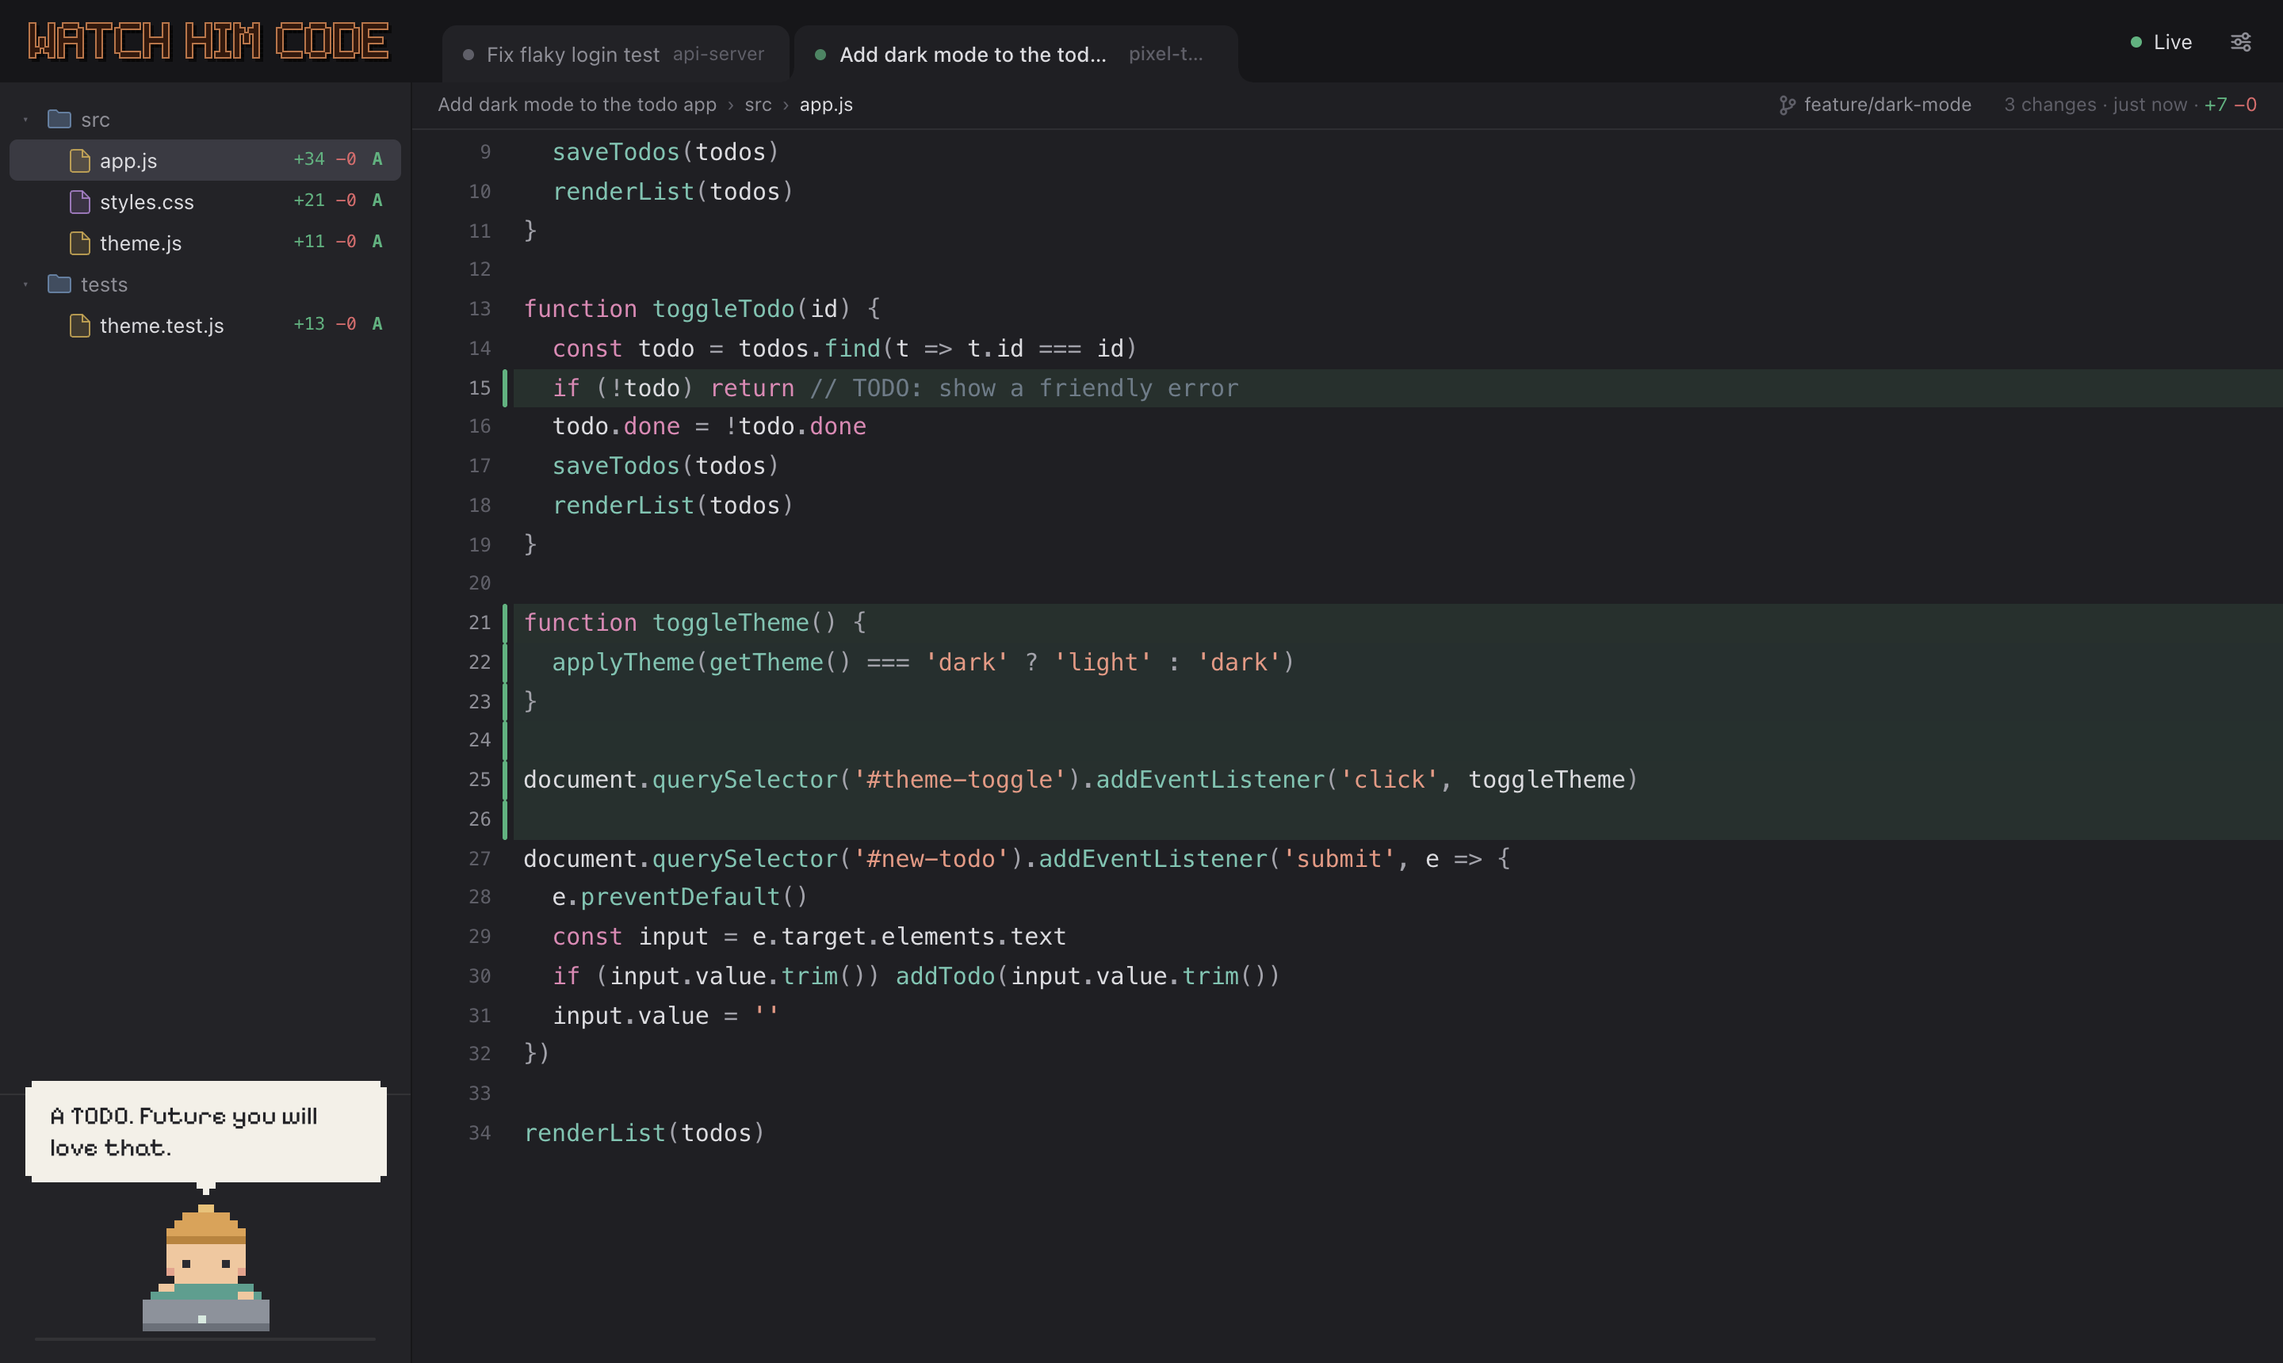
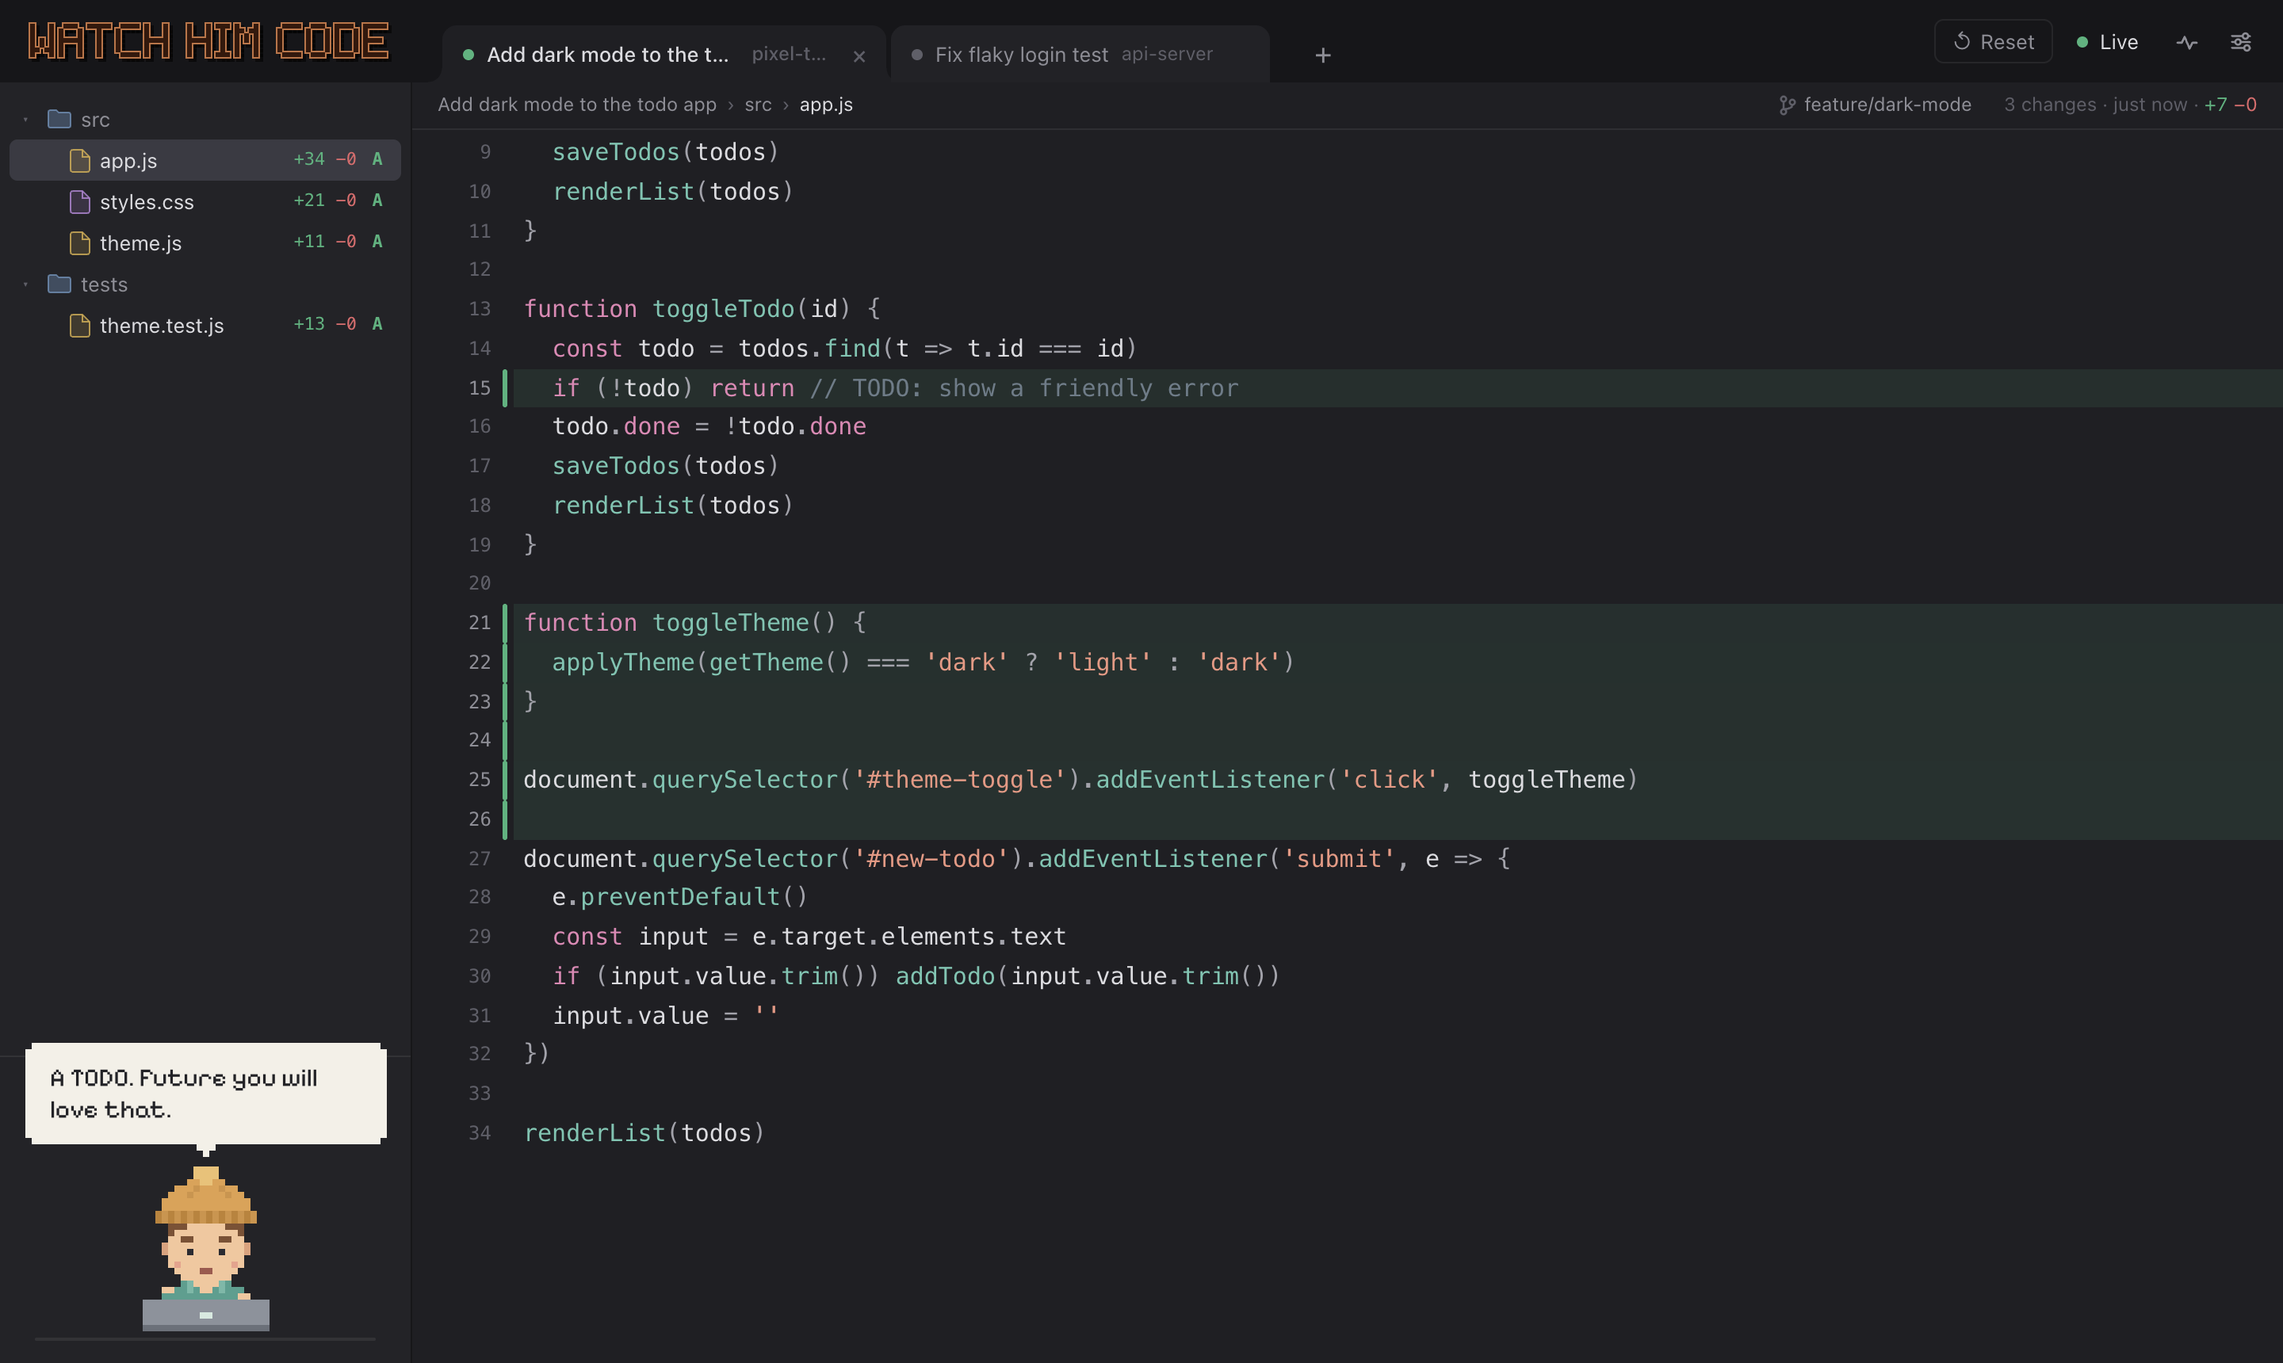
README and screenshots for the current app
- Screenshots regenerated (tabs with close and +, Reset, current avatars)
  plus two new ones: Werner and the settings panel.
- Features grouped (Watch · Understand what changed · Many sessions ·
  Live with it) instead of one long list; new Settings section with a
  short explanation of each option; "How it works" describes the
  git-like per-file diff; outdated bits fixed (d now starts the demo,
  the on/off setting is called Buddy).
- tools/screenshots.js: no update check / git fallback for the fake demo
  repos, closes the status panel, crops Werner and the settings panel,
  uses "Latest edit" for the hero shots (the demo files were all created
  in the session, so "whole session" would mark everything).

Changed region(s): [[0.0, 0.7395, 0.1875, 0.9552], [0.2188, 0.0308, 0.5312, 0.0616]]

diff --git a/tools/screenshots.js b/tools/screenshots.js
@@ -245,7 +245,7 @@ async function main() {
   seed()
 
   const server = spawn(process.execPath, [path.join(ROOT, 'server.js')], {
-    env: { ...process.env, HOME, USERPROFILE: HOME, WHC_NO_OPEN: '1', WHC_PORT: String(PORT) },
+    env: { ...process.env, HOME, USERPROFILE: HOME, CLAUDE_CONFIG_DIR: '', WHC_NO_OPEN: '1', WHC_PORT: String(PORT), WHC_UPDATE_CHECK: '0', WHC_GIT: '0' },
     stdio: 'ignore',
   })
   const chromePath = findChrome()
@@ -272,9 +272,17 @@ async function main() {
     const go = async settings => {
       await page.send('Page.navigate', { url })
       await sleep(800)
-      await page.send('Runtime.evaluate', { expression: `localStorage.setItem('whc.settings', ${JSON.stringify(JSON.stringify(settings))})` })
+      const all = { dwell: 0, marks: 'session', compare: 'session', autoClose: false, avatar: 'junior', ...settings }
+      await page.send('Runtime.evaluate', { expression: `localStorage.setItem('whc.settings', ${JSON.stringify(JSON.stringify(all))})` })
       await page.send('Page.reload')
-      await sleep(1800)
+      await sleep(2200)
+      await js("typeof toggleStatus === 'function' && toggleStatus(false)")
+    }
+    const js = async expression => (await page.send('Runtime.evaluate', { expression, returnByValue: true })).result?.result?.value
+    /** Screen rectangle of an element (for cropping), with some padding. */
+    const rectOf = async (selector, pad = 0) => {
+      const r = await js(`(() => { const b = document.querySelector(${JSON.stringify(selector)}).getBoundingClientRect(); return { x: b.x, y: b.y, width: b.width, height: b.height } })()`)
+      return { x: Math.max(0, r.x - pad), y: Math.max(0, r.y - pad), width: r.width + 2 * pad, height: r.height + 2 * pad }
     }
     const shot = async (name, clip) => {
       const r = await page.send('Page.captureScreenshot', { format: 'png', ...(clip ? { clip: { ...clip, scale: 1 } } : {}) })
@@ -282,8 +290,10 @@ async function main() {
       console.log('✓', name)
     }
 
-    // 1. Editor, dark, inline – caught mid-change with the Pixel Junior talking
-    await go({ view: 'editor', theme: 'dark', diff: 'inline', buddy: true })
+    // 1. Editor, dark, inline – caught mid-change with the Pixel Junior talking.
+    //    The demo files were all created in this session, so "whole session" would
+    //    mark everything – show the edit that is happening instead.
+    await go({ view: 'editor', theme: 'dark', diff: 'inline', buddy: true, marks: 'latest' })
     liveChange()
     await sleep(1500)
     await page.send('Runtime.evaluate', { expression: "document.querySelector('.bubble').textContent = 'A TODO. Future you will love that.'; document.querySelector('.bubble').classList.add('show')" })
@@ -291,7 +301,7 @@ async function main() {
     await shot('editor-dark.png')
 
     // 2. Side by side, dark
-    await go({ view: 'editor', theme: 'dark', diff: 'split', buddy: true })
+    await go({ view: 'editor', theme: 'dark', diff: 'split', buddy: true, marks: 'latest' })
     await shot('side-by-side-dark.png')
 
     // 3. Cards, light
@@ -303,6 +313,20 @@ async function main() {
     await page.send('Runtime.evaluate', { expression: "document.querySelector('.bubble').textContent = 'Writing tests? Who ARE you?'; document.querySelector('.bubble').classList.add('show')" })
     await sleep(400)
     await shot('pixel-junior.png', { x: 0, y: 860 - 260, width: 260, height: 260 })
+
+    // 5. Werner close-up with a speech bubble
+    await go({ view: 'editor', theme: 'dark', diff: 'inline', buddy: true, avatar: 'werner' })
+    await js("document.querySelector('.bubble').textContent = 'Round 3 on app.js. Tricky spot?'; document.querySelector('.bubble').classList.add('show')")
+    await sleep(400)
+    await shot('werner.png', { x: 0, y: 860 - 300, width: 260, height: 300 })
+
+    // 6. Settings panel – with the real defaults (the shots above use instant changes,
+    //    and the update check is off here)
+    await go({ view: 'editor', theme: 'dark', diff: 'inline', buddy: true, dwell: 3 })
+    await js('toggleSettings(true)')
+    await sleep(600)
+    await js("document.getElementById('about-version').textContent = 'Watch Him Code 0.3.4 · up to date'; document.getElementById('check-update').hidden = false")
+    await shot('settings.png', await rectOf('#settings', 12))
 
     page.close()
   } finally {

diff --git a/README.md b/README.md
@@ -30,58 +30,76 @@ dependencies**. `npm install` is not part of this story.
 
 ## Features
 
-- **Live, file by file.** New and modified files appear instantly. The view follows the latest
-  change automatically, like a very loyal dog.
+### Watch
+
+- **Live, file by file.** New and modified files appear the moment they land. The view follows
+  the latest change, like a very loyal dog – and keeps each change on screen for a moment
+  (*Show each change*, 0–10 s) so it doesn't jump around like a caffeinated squirrel. Files
+  changed meanwhile queue up and play in order; `Esc` jumps to the newest.
 - **Two views, same powers.**
   - *Editor* – Xcode-flavoured: folder tree, the whole file, changes marked in the gutter.
     Deleted lines briefly appear struck through, then politely collapse.
   - *Cards* – file cards with growing +/− bars and a stack of diffs per file.
 - **Three diff modes.** *New* (just the result), *Inline* (old and new stacked) or *Side by
   side* (old left, new right, gaps hatched like a 90s textbook).
-- **Every session at once.** Running several agents? Each session gets a tab. A pulsing dot
-  tells you which one is currently busy rewriting your life. Close a tab and it comes back when
-  that session gets busy again; *+* opens older sessions. Idle tabs stay open unless you set
-  *Close idle tabs → After 1 h*.
-- **What really changed, like `git diff`.** Each file shows everything the session changed in it
-  as one diff – several edits combined, against the committed state when the session started
-  (outside git: the content before the first edit). The newest edit is still animated.
-  *Settings → Compare with → Last commit* compares against each repo's latest commit instead,
-  exactly like VS Code – after a commit only what came since shows up.
-  *Settings → Marks → Latest edit* marks only the newest edit.
-- **Reset.** Long session, then a PR, then review comments? Click *↺ Reset* (or press `c`) and
-  the tab only shows what changed from now on – again combined per file. Earlier changes are
-  just hidden: closing the *since* pill brings back the whole session.
-- **No frantic jumping.** Each change stays on screen for a few seconds (*Show each change*,
-  0–10 s); files changed meanwhile queue up and play in order. `Esc` jumps to the newest.
-- **Git branch awareness.** Shows the branch of the repo each file lives in – including nested
-  repos and submodules, so you know *which* repo it's breaking.
 - **Catches shell edits too.** Agent sneaks a `sed -i` past you? Watch Him Code asks git what
   changed in the session's repos (subrepos included) and shows it anyway, marked *via shell*.
-- **Status check.** The pulse icon next to the settings (or `i`) checks Node, logs, git, folder
-  access and whether edits are actually visible – and opens by itself if something's off.
+
+### Understand what changed
+
+- **What really changed, like `git diff`.** Each file shows everything the session changed in it
+  as *one* diff – several edits combined, even edits that never made it into the log. Tree, cards
+  and the bar above the file show the net +/−. The newest edit is still the one that animates.
+- **Compare with session start or last commit.** By default you see what the whole session did.
+  Switch to *Last commit* and each repo compares against its latest commit – exactly like VS Code;
+  commits are picked up automatically.
+- **↺ Reset.** Long session, then a PR, then review comments? Click *Reset* (or press `c`) and
+  the tab only shows what changes from now on. Nothing is deleted – the orange *since …* pill
+  brings the whole session back.
+- **Git branch awareness.** Shows the branch of the repo each file lives in – including nested
+  repos and submodules, so you know *which* repo it's breaking.
+
+### Many sessions
+
+- **Every session gets a tab.** A pulsing dot tells you which one is currently busy rewriting
+  your life. Close a tab and it comes back by itself when that session gets busy again.
+- **+ opens older sessions** – your 40 most recent ones, with title or first prompt.
+- **Tabs stay open** until you close them (or set *Close idle tabs → After 1 h*).
+- **Resizable file tree.** Drag its edge; double-click resets it.
+
+### Live with it
+
+- **The Pixel Junior – or Werner.** See below. They're the best part. They know it.
 - **Light, dark or system.** Both are muted. Your retinas have suffered enough.
-- **The Pixel Junior.** See below. He's the best part. He knows it.
-- **Real apps.** A native Mac app and a Windows app, about 1 MB each. Double-click, done.
-  Closing the window keeps them watching in the background (Dock / tray); quit to really stop.
-- **Updates itself – when you say so.** A new release shows up as a little ↑ button. One click
-  on *Install & restart* and the app replaces itself. No ZIP juggling.
+- **Status check.** The pulse icon (or `i`) checks Node, logs, git, folder access and whether
+  edits are actually visible – and opens by itself if something's off.
+- **Real apps.** A native Mac app (DMG) and a Windows app, about 1 MB each. Closing the window
+  keeps them watching in the background (Dock / tray); quit to really stop.
+- **Updates itself – when you say so.** A new release shows up as a little ↑ button (and in the
+  settings). One click on *Install & restart* and the app replaces itself.
+- **Demo.** Nothing running? Press `d` and a made-up session plays in its own tab – handy for
+  showing the app to colleagues.
 
 ![Side-by-side diff](docs/screenshots/side-by-side-dark.png)
 
 ![Cards view in light mode](docs/screenshots/cards-light.png)
 
-## Meet the Pixel Junior
+## Meet the Pixel Junior (and Werner)
 
-<img src="docs/screenshots/pixel-junior.png" width="260" align="right" alt="The Pixel Junior">
+<table><tr>
+<td><img src="docs/screenshots/pixel-junior.png" width="230" alt="The Pixel Junior"></td>
+<td><img src="docs/screenshots/werner.png" width="200" alt="Werner, the team alpaca"></td>
+</tr></table>
 
-He sits in the corner, types along when code comes in, throws a little sheet of paper when a new
-file is born, sweeps up crumbs when code gets deleted, falls asleep after two minutes of silence
-and startles awake when work resumes. Just like a real developer.
+The **Pixel Junior** sits in the corner, types along when code comes in, throws a little sheet of
+paper when a new file is born, sweeps up crumbs when code gets deleted, falls asleep after two
+minutes of silence and startles awake when work resumes. Just like a real developer.
 
-Prefer an alpaca? *Settings → Avatar → Werner* swaps him for Werner Sauer, our team mascot:
-rainbow wool, yellow scarf, permanently unimpressed brows. Same desk, same laptop, same opinions.
+Prefer an alpaca? *Settings → Avatar → Werner* swaps him for **Werner Sauer**, our team mascot:
+rainbow wool, yellow scarf, permanently unimpressed brows – and sparks flying off the laptop while
+he types. Same desk, same opinions.
 
-Occasionally he comments on what he sees. Rarely, briefly, and based only on facts:
+Occasionally they comment on what they see. Rarely, briefly, and based only on facts:
 
 > *"+240 lines in one go. Bold."*
 > *"A TODO. Future you will love that."*
@@ -90,8 +108,25 @@ Occasionally he comments on what he sees. Rarely, briefly, and based only on fac
 > *"CSS time. Good luck centering that div."*
 > *"I was NOT asleep."*
 
-Press **`d`** to make him perform his entire repertoire. Don't like him? Settings → Pixel Junior →
-Off. He won't take it personally. (He will.)
+Press **`d`** for the demo to see the whole repertoire. Don't want company? *Settings → Buddy →
+Off*. They won't take it personally. (They will.)
+
+## Settings
+
+<img src="docs/screenshots/settings.png" width="340" align="right" alt="The settings panel">
+
+| | |
+|---|---|
+| **View** | Editor or Cards |
+| **Diff** | New, Inline or Side by side |
+| **Marks** | *Whole session* – everything that changed in a file; *Latest edit* – only the newest edit |
+| **Compare with** | *Session start* or *Last commit* (like VS Code) |
+| **Show each change** | how long a change stays on screen before the next one, 0–10 s |
+| **Close idle tabs** | *Never* or *After 1 h* without activity |
+| **Theme** | Light, Dark or System |
+| **Buddy** / **Avatar** | Pixel Junior or Werner, or nobody |
+
+At the bottom: the version you're running, with **Check now** for updates.
 
 <br clear="right">
 
@@ -160,12 +195,12 @@ browser at `http://127.0.0.1:4777`.
 Claude Code writes every session to `~/.claude/projects/<project>/<session>.jsonl` – both the
 terminal and the desktop app. Watch Him Code:
 
-1. watches every session that was active in the last hour (plus the ones you keep open),
+1. watches every session that was active in the last hour (plus the tabs you keep open),
 2. reads new lines as they arrive (every 0.6 s),
-3. keeps only entries where a file was created or edited (`Write`, `Edit`, `MultiEdit`, and
-   `NotebookEdit` on a good day),
-4. reconstructs the full file around each change and streams it to the window via
-   Server-Sent Events.
+3. picks out every file the agent created or edited (`Write`, `Edit`, `MultiEdit`,
+   `NotebookEdit`) – and asks git about everything else (see *Shell edits* below),
+4. per file, compares the content at the session start (or the last commit, or your reset)
+   with what's on disk now, and streams it all to the window via Server-Sent Events.
 
 It listens on `127.0.0.1` only. Your code, logs and sessions never leave your machine, nothing
 is uploaded, nothing is "synced to the cloud for a better experience".
@@ -219,7 +254,8 @@ names exactly like that.
 server.js               the whole backend, Node built-ins only
 public/                 the UI (plain HTML, CSS, JS – no framework, no build step)
   app.js                live logic, sessions, views, diffs
-  buddy.js              the Pixel Junior and his opinions
+  buddy.js              the Pixel Junior, Werner and their opinions
+  demo.js               the made-up demo session (key d)
   highlight.js          a tiny home-made syntax highlighter
   logo.js               the pixel logo, letter by letter
 app/macos/              Swift + WKWebView wrapper
